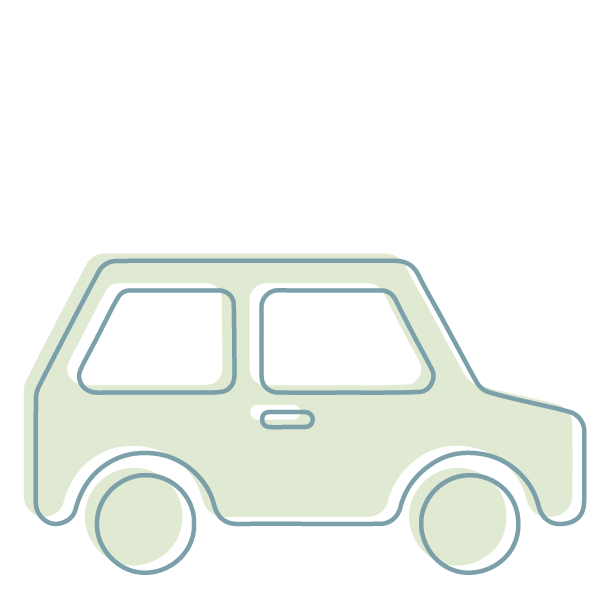
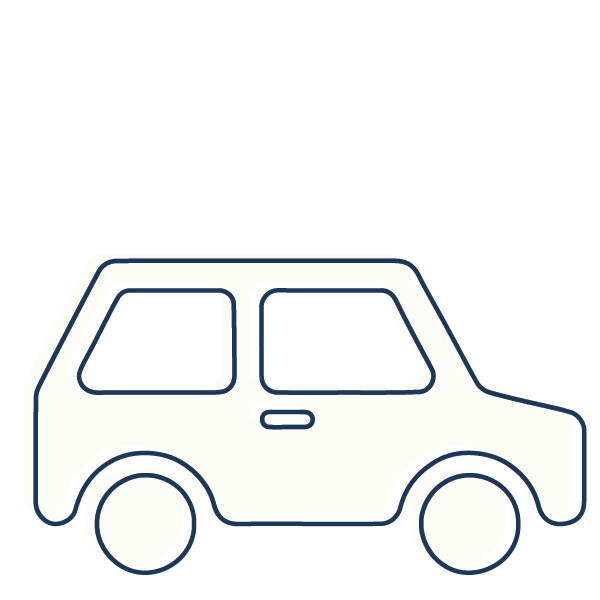
changes for colors

Changed region(s): [[0.03, 0.42, 0.99, 0.96]]

diff --git a/styles/style.css b/styles/style.css
@@ -1,18 +1,16 @@
 @import url('https://fonts.googleapis.com/css2?family=Roboto:wght@300;500;700&display=swap');
 
 :root {
-    --dark-blue: #7BA1A9;
-    --green: #E1E7D0;
-    --dark-pink: #E2C3C8; 
-    --light-pink: #F4EDEE;
-    --cream: #F1F0E5;
-    --dark-color: #193338;
+    --primary-color: #1E375A;
+    --secondary-color: #DADEBE;
+    --accent-color: #CEAFD4;
+    --light: #FBFCF4;
     --font: 'Roboto', sans-serif;
 }
 
 html{
     font-family: var(--font);
-    background-color: var(--cream);
+    background-color: var(--light);
     color: var(--dark-color);
 }
 
@@ -22,13 +20,13 @@ header img{
 }
 
   a {
-    color: var(--dark-color);
+    color: var(--primary-color);
   }
   
   /* ----------- HEADER -----------*/
   
   .header {
-    background-color: var(--cream);
+    background-color: var(--light);
     width: 100%;
     position: fixed;
     top: 0;
@@ -61,13 +59,13 @@ header img{
     padding: 5px 20px;
     text-decoration: none;
     font-weight: 300;
-    border-top: solid 2px var(--dark-blue);
+    border-top: solid 2px var(--primary-color);
   }
 
   .header li a:hover,
   .header .menu-btn:hover {
-    background-color: var(--dark-blue);
-    color: var(--cream);
+    background-color: var(--primary-color);
+    color: var(--light);
   }
   
   .header img{
@@ -98,7 +96,7 @@ header img{
   }
   
   .header .menu-icon .navicon {
-    background: var(--dark-blue);
+    background: var(--primary-color);
     display: block;
     height: 2px;
     position: relative;
@@ -108,7 +106,7 @@ header img{
   
   .header .menu-icon .navicon:before,
   .header .menu-icon .navicon:after {
-    background: var(--dark-blue);
+    background: var(--primary-color);
     content: '';
     display: block;
     height: 100%;
@@ -174,7 +172,7 @@ header img{
 
 /* ----------- THIS IS THE CODE FOR THE FIRST SECTION -----------*/
 .selfie{
-    background-color: var(--dark-blue);
+    background-color: var(--secondary-color);
     margin-top: 5rem;
     padding-bottom: 10rem;
     z-index: -2;
@@ -197,9 +195,12 @@ header img{
 .favthings{
     font-weight: 300;
     margin-top: -10rem;
-    background-color: var(--dark-pink);
+    background-color: var(--primary-color);
     padding: 3rem 2rem;
+    color: var(--light);
 }
+
+
 
 .fav{
     font-weight: 300;
@@ -223,9 +224,9 @@ header img{
 }
 
 marquee{
-  background-color: var(--dark-blue);
+  background-color: var(--accent-color);
   padding: 1rem;
-  color: var(--cream);
+  color: var(--light);
   font-size: 30px;
   font-weight: 300;
 }
@@ -252,7 +253,7 @@ marquee{
   left: 0;
   right: 0;
   bottom: 0;
-  background-color: #E85FAD;
+  background-color: #D46BA2;
   -webkit-transition: .4s;
   transition: .4s;
 }
@@ -264,17 +265,17 @@ marquee{
   width: 26px;
   left: 4px;
   bottom: 4px;
-  background-color: var(--dark-color);
+  background-color: var(--primary-color);
   -webkit-transition: .4s;
   transition: .4s;
 }
 
 input:checked + .slider {
-  background-color: var(--dark-blue);
+  background-color: var(--light);
 }
 
 input:focus + .slider {
-  box-shadow: 0 0 1px var(--cream);
+  box-shadow: 0 0 1px var(--light);
 }
 
 input:checked + .slider:before {
@@ -294,7 +295,7 @@ input:checked + .slider:before {
 
 .colorchange{
   padding: 1rem;
-  background-color: var(--green);
+  background-color: var(--accent-color);
   display: flex;
   align-items: center;
   grid-gap: 3rem;
@@ -328,7 +329,7 @@ input:checked + .slider:before {
 
 .aboutsite{
   display: inline-block;
-  background-color: var(--dark-pink);
+  background-color: var(--secondary-color);
   border-radius: 3rem;
   width: 300px;
   height: 650px;
@@ -368,8 +369,8 @@ h2{
 }
 
 .websites a{
-  background-color: var(--light-pink);
-  color: var(--dark-color);
+  background-color: var(--primary-color);
+  color: var(--light);
   padding: 1rem;
   text-align: center;
   display: block;
@@ -381,37 +382,36 @@ h2{
 }
 
 .websites a:hover{
-  background-color: var(--green);
-  text-decoration: var(--dark-color) wavy underline;
+  background-color: var(--accent-color);
+  color: var(--primary-color);
+  text-decoration: var(--primary-color) wavy underline;
 }
 
 /* ----------- THIS IS THE CODE FOR QUOTE SECTION -----------*/
-.colorBlock{
+/* .colorBlock{
   background-color: var(--dark-blue);
   padding: 1rem;
 }
 
 .colorBlock p{
-  color: var(--cream);
+  color: var(--light);
   font-size: 24px;
   text-align: center;
-}
+} */
 
 /* ----------- THIS IS THE CODE FOR THE Experience -----------*/
 
 .experience{
-  background-color: var(--light-pink);
-  padding: 1rem;
-  padding-bottom: 10rem;
-    --mask:
-      radial-gradient(147.57px at 50% calc(100% - 204.00px),#000 100%,#0000 100%) calc(50% - 160px) 0/320px 100%,
-      radial-gradient(147.57px at 50% calc(100% + 124.00px),#0000 100%,#000 100%) 50% calc(100% - 80px)/320px 100% repeat-x;
-    -webkit-mask: var(--mask);
-            mask: var(--mask);
+  background-color: var(--primary-color);
+  color: var(--light);
+  padding: 2rem;
+  padding-bottom: 2rem;
 }
 
+
+
 .experience p{
-  border-bottom: solid 4px var(--dark-color);
+  border-bottom: solid 4px var(--light);
   padding-bottom: 1rem;
   font-weight: 300;
   font-size:20px;

diff --git a/styles/medium.css b/styles/medium.css
@@ -106,10 +106,19 @@
 }
 
 .phoneImg{
-  background-color: var(--dark-pink);
+  background-color: var(--accent-color);
   position: relative;
   border-radius: 25px;
   height: 550px;
+}
+
+.experience {
+  padding-bottom: 10rem;
+  --mask:
+    radial-gradient(147.57px at 50% calc(100% - 204.00px),#000 100%,#0000 100%) calc(50% - 160px) 0/320px 100%,
+    radial-gradient(147.57px at 50% calc(100% + 124.00px),#0000 100%,#000 100%) 50% calc(100% - 80px)/320px 100% repeat-x;
+  -webkit-mask: var(--mask);
+          mask: var(--mask);
 }
 
 
